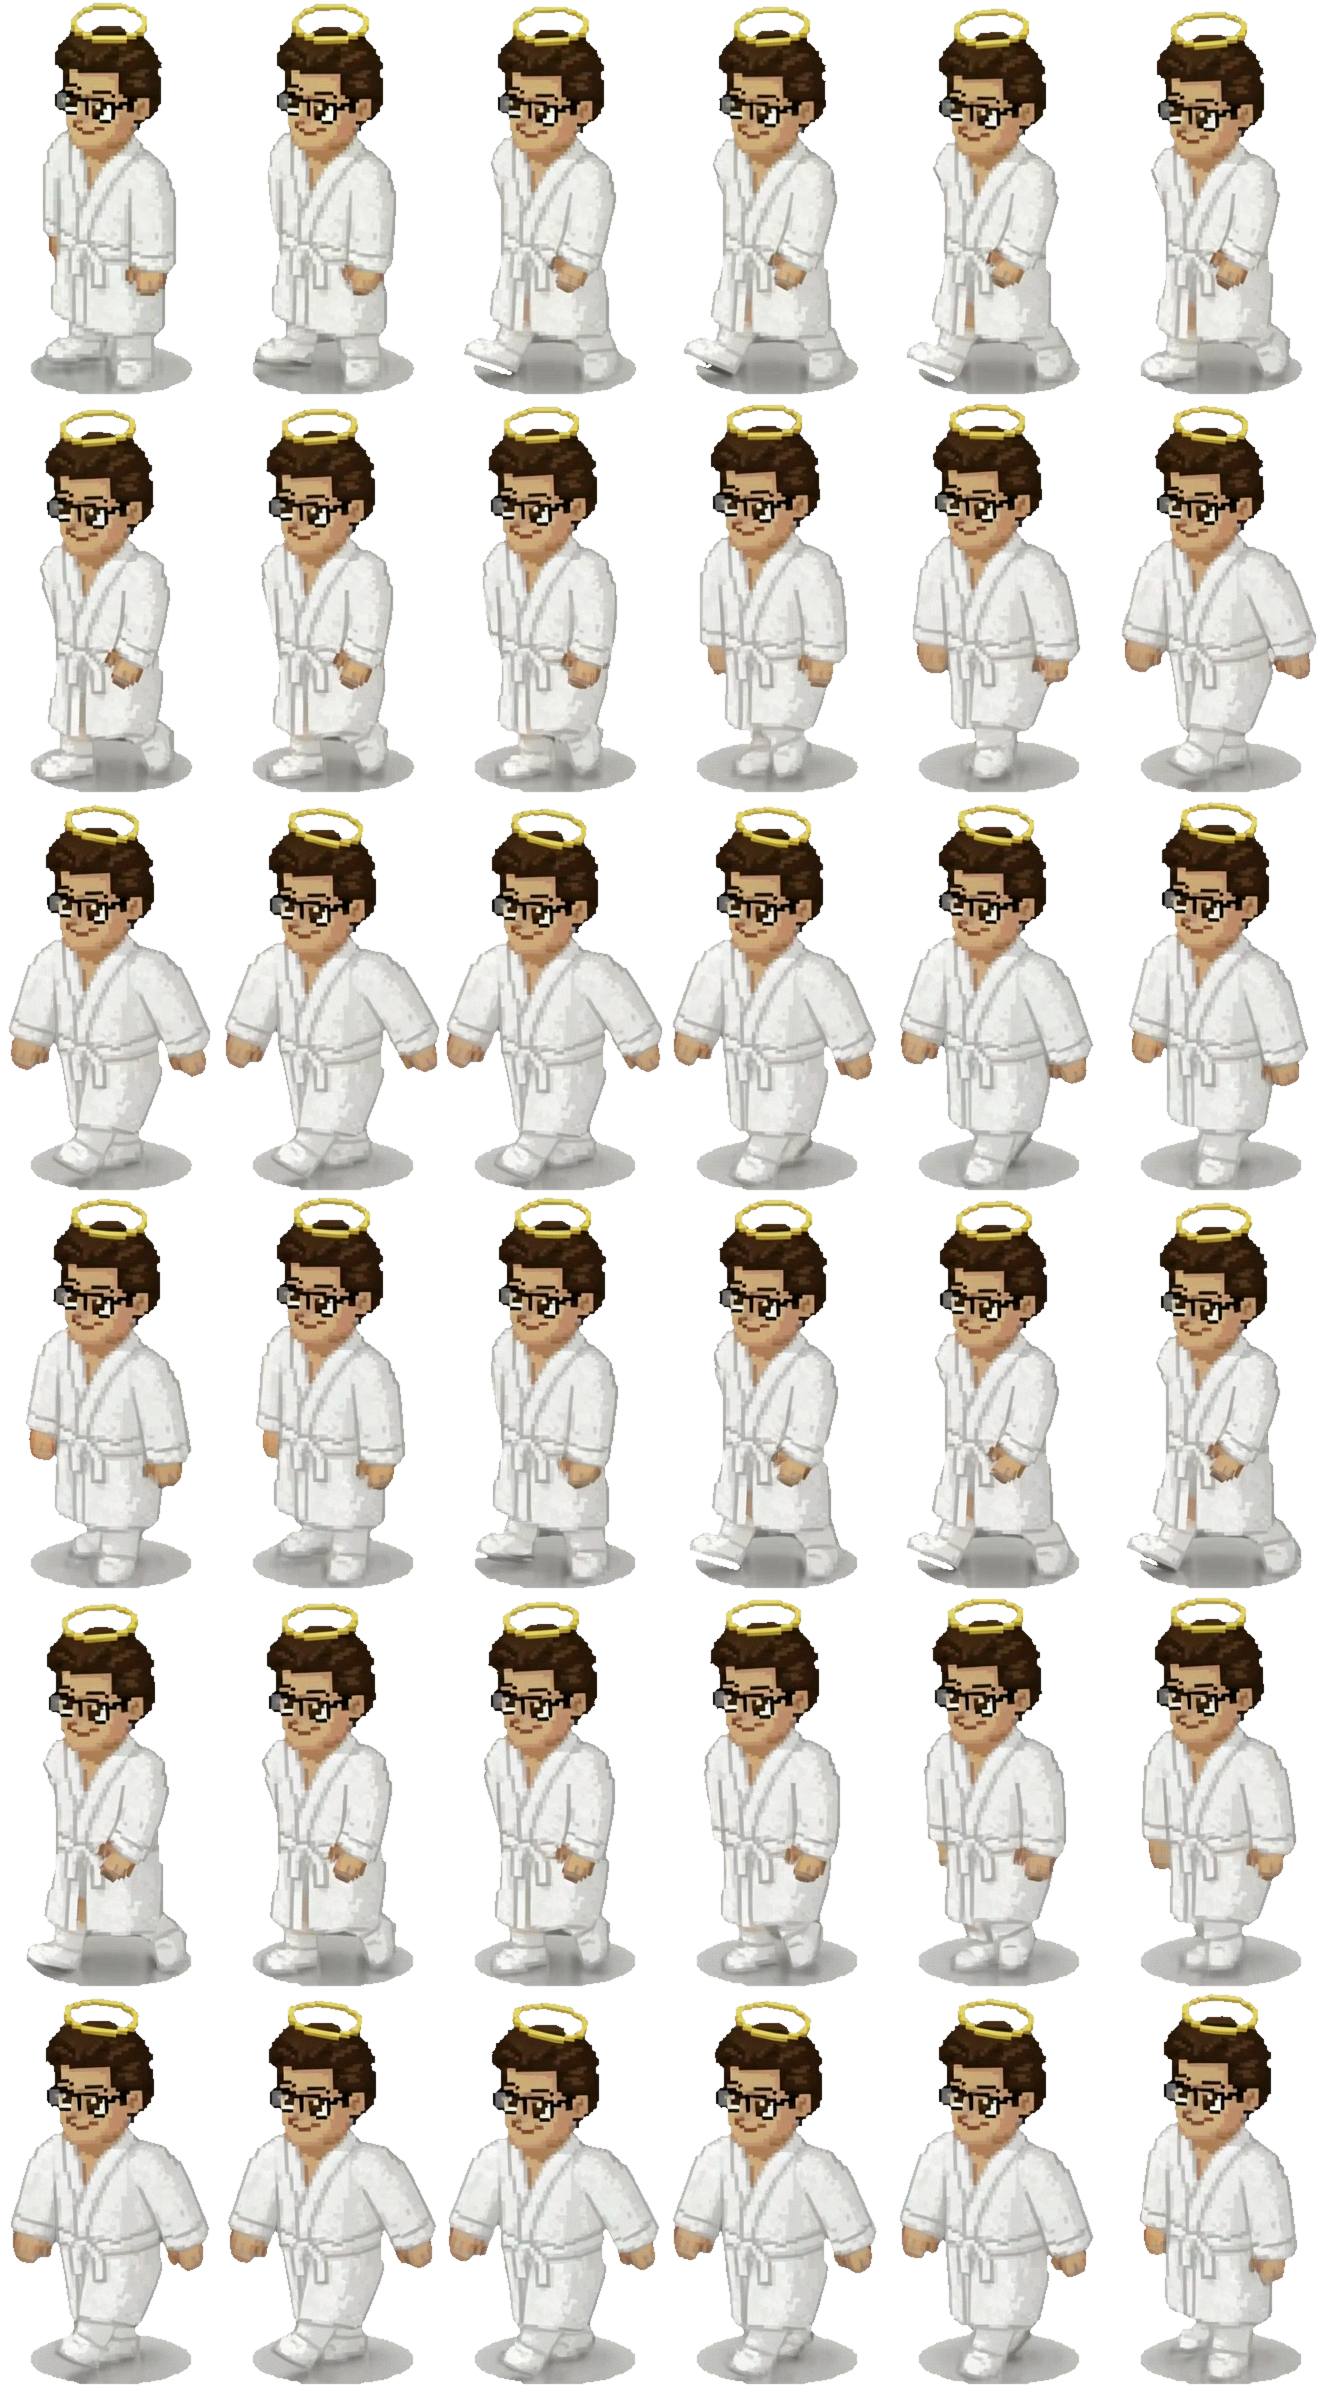
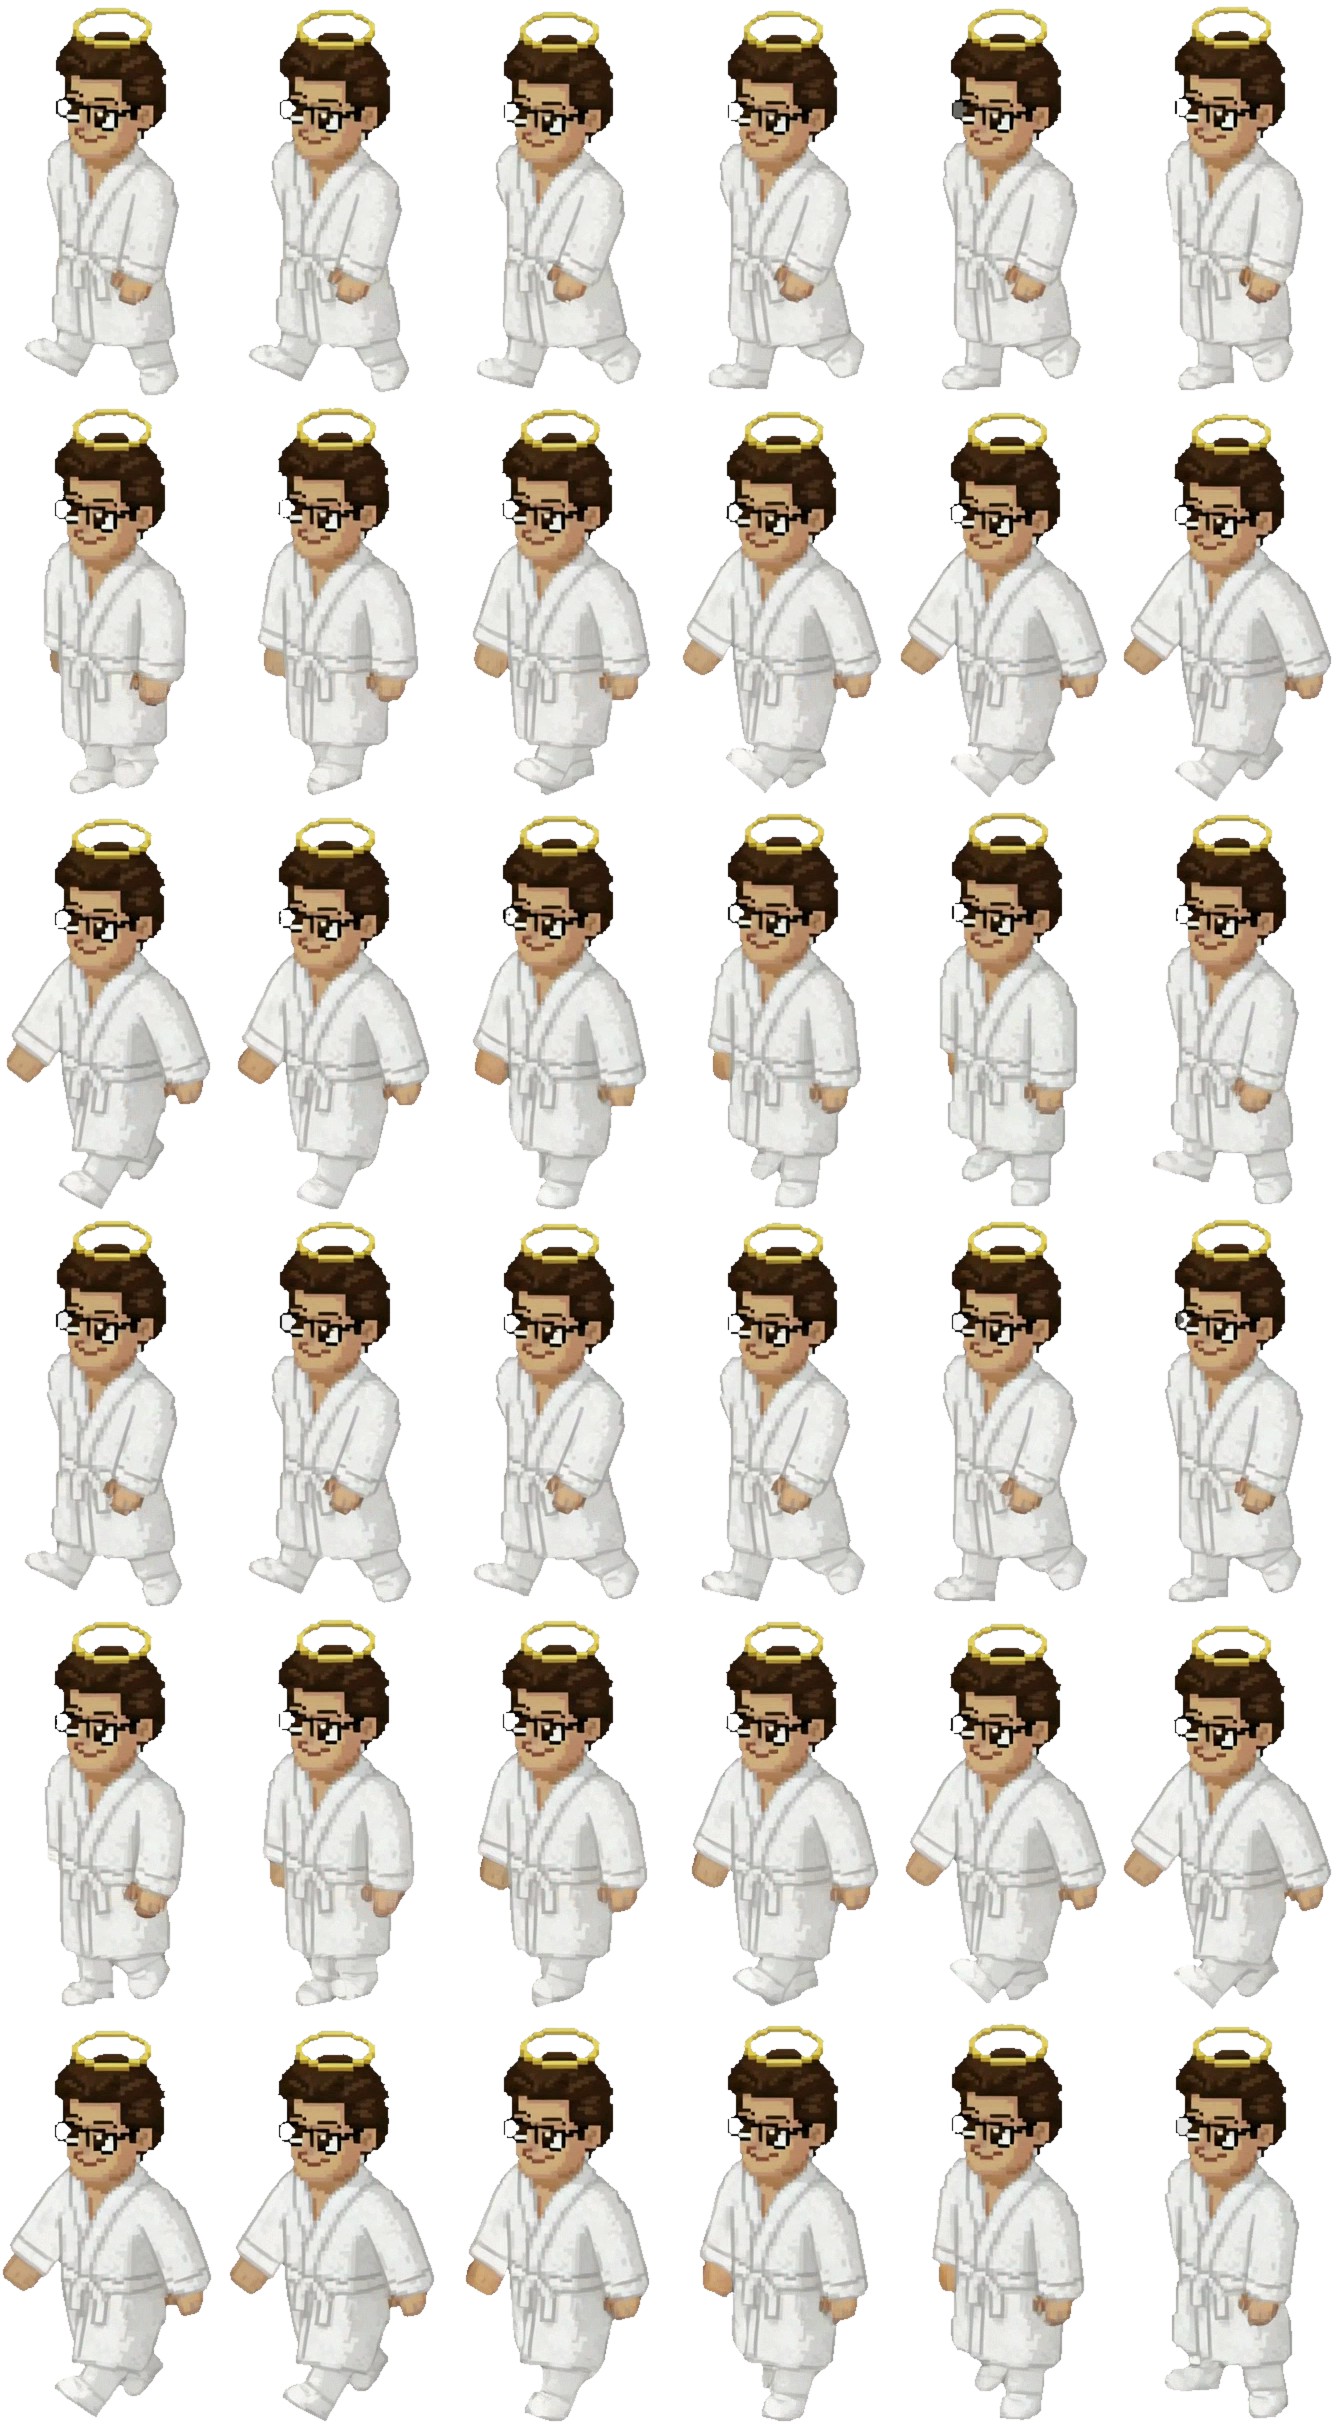
newer characters

Changed region(s): [[0.0, 0.0, 0.985, 1.0]]

diff --git a/scripts/PlayerController.cs b/scripts/PlayerController.cs
@@ -258,9 +258,17 @@ public partial class PlayerController : CharacterBody2D
 		string roleName = roleLower;
 		
 		// Map role name to asset prefix
-		if (roleLower != "admirer" && roleLower != "prophet" && roleLower != "producer")
+		if (roleLower == "admirer")
 		{
-			roleName = "admirer"; // Default
+			roleName = "admirer2";
+		}
+		else if (roleLower == "producer")
+		{
+			roleName = "producer2";
+		}
+		else if (roleLower != "prophet")
+		{
+			roleName = "admirer2"; // Default
 		}
 
 		var frames = new SpriteFrames();
@@ -309,8 +317,7 @@ public partial class PlayerController : CharacterBody2D
 			frames.SetAnimationSpeed(animName, animName.Contains("idle") ? 10.0f : 15.0f);
 
 			// Standardized height units
-			float targetWorldHeight = 143.0f; 
-			if (roleLower == "producer") targetWorldHeight = 165.0f; // Producer is visually smaller
+			float targetWorldHeight = 143.0f; // Standard size for all isometric characters
 			
 			// Use the full frame height for scale calculation to keep consistency
 			_animationScales[animName] = targetWorldHeight / frameHeight;
@@ -327,16 +334,14 @@ public partial class PlayerController : CharacterBody2D
 		// Up = Back
 		// Right = Front
 		// Left = Front (flipped in UpdateAnimation)
-		bool isProphet = roleLower == "prophet";
+		AddAnimationFrames("walk_down", frontWalk);
+		AddAnimationFrames("walk_up", backWalk);
+		AddAnimationFrames("walk_right", frontWalk);
+		AddAnimationFrames("walk_left", frontWalk);
 		
-		AddAnimationFrames("walk_down", frontWalk, isProphet);
-		AddAnimationFrames("walk_up", backWalk, isProphet);
-		AddAnimationFrames("walk_right", frontWalk, isProphet);
-		AddAnimationFrames("walk_left", frontWalk, isProphet);
-		
-		AddAnimationFrames("idle_right", frontIdle, isProphet);
-		AddAnimationFrames("idle_left", frontIdle, isProphet);
-		AddAnimationFrames("idle_up", backIdle, isProphet); 
+		AddAnimationFrames("idle_right", frontIdle);
+		AddAnimationFrames("idle_left", frontIdle);
+		AddAnimationFrames("idle_up", backIdle); 
 
 		_sprite.SpriteFrames = frames;
 		
